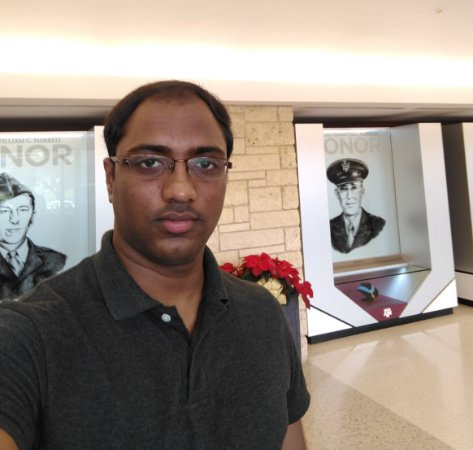
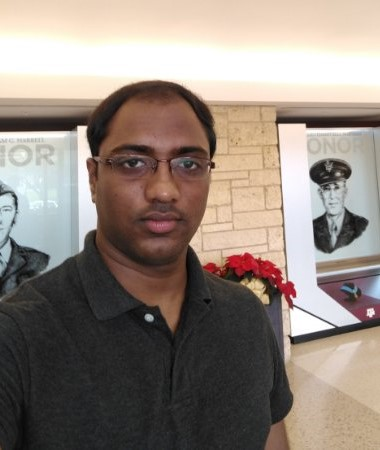
chnages

diff --git a/index.html b/index.html
@@ -60,14 +60,14 @@
 
   <div class="col-md-3 col-sm-12">
       <div class="profileimage">
-    <img src="images/Pranay_pic.jpg" alt="Me @ CCU" height="270" width="200">
+    <img src="images/Pranay_pic.jpg" alt="Me @ CCU" height="380" width="450">
           </div>
 
   </div>
 
   <div class="col-md-9 col-sm-12" >
 
-     <h1 style="padding-left: 5px">Howdy!</h1>
+    <h1 style="padding-left: 5px">Howdy!</h1>
     <p style="padding-left: 6px;padding-right: 6px"> I'm Pranay Kumar, a graduate student from Computer Engineering major at <a href="https://www.tamu.edu/">Texas A &amp; M University </a>College station. I received my bachelors degree in Electrical Engineering from  <a href="http://www.iitbbs.ac.in" target="_blank">Indian Institute of Technology</a> Bhubaneswar.</p>
     <p style="padding-left: 6px;padding-right: 6px"> My background lies in diverse fields: Machine Learning, Robotics (Computer Vision and SLAM) and Computer Architecture & Digital Logic Design. Here, you will find all the information about my Educational qualifications, Research activities and the various Extra-curricular and Co-curricular Activities.</p>
     
